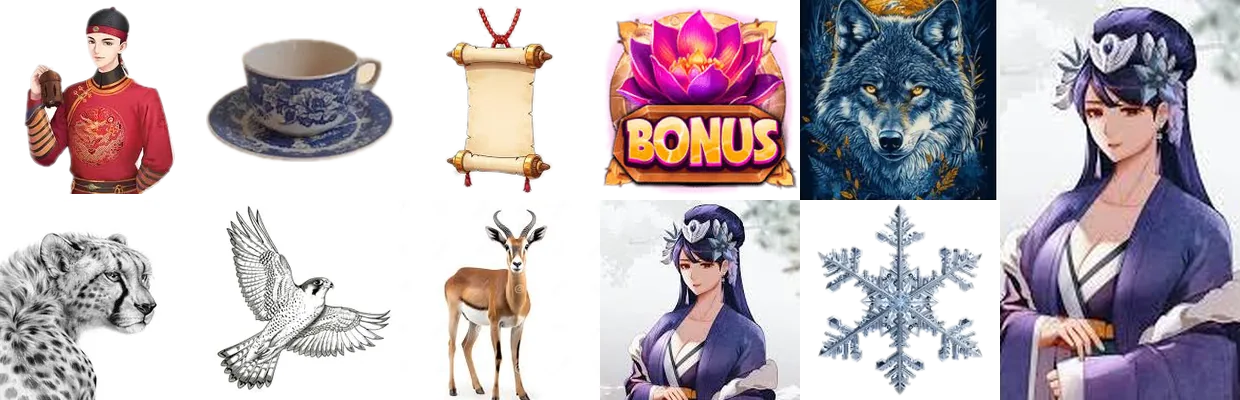
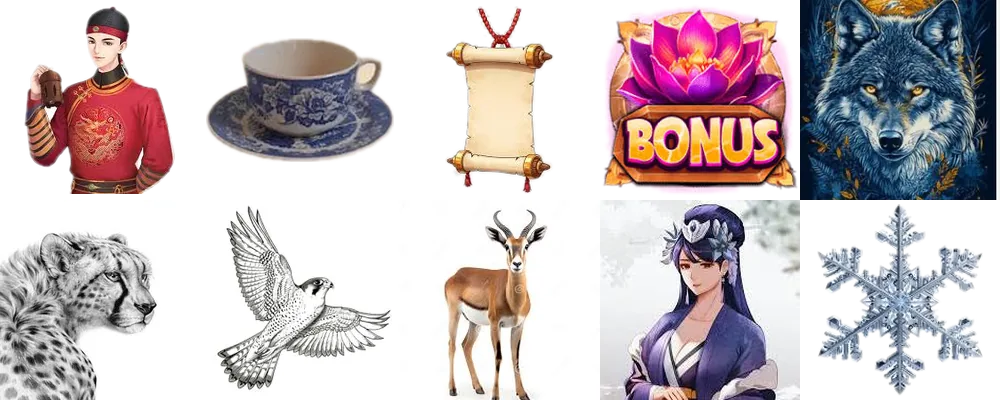
La noble de azul pasa a Sueño Rojo; Reino de Nieve recupera su Reina
- Sueño Rojo: la noble de azul reemplaza a la noble china, en retrato con
  marco lacado rojo y dorado (también en el lobby).
- Reino de Nieve: vuelve la Reina original del atlas (símbolo, figura de 2
  casillas y lobby). Se quita el retrato alto de la hoja de temas.

Claude-Session: https://claude.ai/code/session_0158y9U2VM53nb9rLAghSrCY

diff --git a/js/games/xthemes.js b/js/games/xthemes.js
@@ -4,8 +4,8 @@
 // las filas cerradas son paneles rojos. Reino de Nieve paga por líneas y el hielo es una lámina escarchada.
 //  · SUEÑO ROJO: pagoda roja, paneles lacados con borlas, rodillos de jade, cerezos en flor.
 //  · REINO DE NIEVE: castillo de hielo, paneles escarchados, aurora, carámbanos y nevada.
-import { S, glow, goldText, rand, FONT, makeCanvas } from '../gfx.js?v=34';
-import XLink, { THEME, PAY, linesFor } from './xlink.js?v=34';
+import { S, glow, goldText, rand, FONT, makeCanvas } from '../gfx.js?v=35';
+import XLink, { THEME, PAY, linesFor } from './xlink.js?v=35';
 
 const MAXR = 8, BASE_R = 3;
 // Filas activas → formas de ganar
@@ -167,9 +167,9 @@ export class SnowKingdom extends XLink {
 }
 
 // ---------- Hoja de imágenes de los temas (assets/themes.webp, ver tools/build_themes.py) ----------
-// 10 casillas de 200×200 en 5 columnas y la Reina alta (240×400) en x=1000
+// 10 casillas de 200×200 en 5 columnas × 2 filas
 let SHEET = null;
-const SHEET_POS = { noble: 0, tea: 1, scroll: 2, lotus: 3, wolf: 4, leopard: 5, falcon: 6, antelope: 7, queen: 8, snowflake: 9 };
+const SHEET_POS = { noble: 0, tea: 1, scroll: 2, lotus: 3, wolf: 4, leopard: 5, falcon: 6, antelope: 7, lady: 8, snowflake: 9 };
 export function loadThemeArt(src = 'assets/themes.webp') {
   return new Promise((res, rej) => { const img = new Image(); img.decoding = 'async'; img.onload = () => { SHEET = img; res(img); }; img.onerror = rej; img.src = src; });
 }
@@ -178,7 +178,7 @@ function sheetDraw(x, k, dx, dy, dw, dh) {
   x.drawImage(SHEET, (n % 5) * 200, Math.floor(n / 5) * 200, 200, 200, dx, dy, dw, dh);
 }
 // Ícono del lobby desde la hoja de temas (estilo CSS)
-export function sheetIconStyle(k) { const n = SHEET_POS[k]; return 'background-image:url(assets/themes.webp);background-size:620% 200%;background-position:' + ((n % 5) * 200 / 1040 * 100).toFixed(2) + '% ' + Math.floor(n / 5) * 100 + '%'; }
+export function sheetIconStyle(k) { const n = SHEET_POS[k]; return 'background-image:url(assets/themes.webp);background-size:500% 200%;background-position:' + (n % 5) * 25 + '% ' + Math.floor(n / 5) * 100 + '%'; }
 
 // ---------- Símbolos dibujados para Sueño Rojo ----------
 const art = new Map();
@@ -511,23 +511,21 @@ const drawSnowflake = drawn('snowflake', (x, s) => {
   bonusLabel(x, s, s * 0.86, ['#ffffff', '#8fd0ff'], '#0a2a5a');
 }, true);
 
-// Sueño Rojo: noble chino, taza de porcelana, papiro y flor de loto BONUS
-RED.draw = Object.assign({}, RED.draw, { s7b: figure('noble'), bar: figure('tea'), bell: figure('scroll'), scat: figure('lotus') });
-RED.names = Object.assign({}, RED.names, { bar: 'Taza de porcelana' });
-// Reino de Nieve: Reina, lobo, leopardo, halcón, antílope y copo de nieve BONUS
-SNOW.draw = Object.assign({}, SNOW.draw, { s7r: card('queen'), s7b: card('wolf'), bar: card('leopard', true), bell: card('falcon', true), melon: card('antelope', true), scat: drawSnowflake });
+// Retrato en marco lacado rojo con borde dorado (la noble de azul de Sueño Rojo)
+const lacquer = k => drawn('lacq-' + k, (x, s) => {
+  x.save(); x.shadowColor = 'rgba(0,0,0,0.6)'; x.shadowBlur = s * 0.05; x.shadowOffsetY = s * 0.02;
+  iceFrame(x, s, 0.03); const g = x.createLinearGradient(0, 0, s, s); g.addColorStop(0, '#e0281a'); g.addColorStop(1, '#6a0406'); x.fillStyle = g; x.fill(); x.restore();
+  x.save(); iceFrame(x, s, 0.085); x.clip(); sheetDraw(x, k, s * 0.085, s * 0.085, s * 0.83, s * 0.83); x.restore();
+  iceFrame(x, s, 0.085); x.lineWidth = s * 0.022; const gb = x.createLinearGradient(0, 0, 0, s); gb.addColorStop(0, '#fff0a8'); gb.addColorStop(0.5, '#e8a820'); gb.addColorStop(1, '#ffd06a'); x.strokeStyle = gb; x.stroke();
+  // esquinas doradas
+  x.fillStyle = '#ffd06a'; [[0.07, 0.07], [0.93, 0.07], [0.07, 0.93], [0.93, 0.93]].forEach(([u, v]) => { x.beginPath(); x.arc(s * u, s * v, s * 0.035, 0, 7); x.fill(); });
+}, true);
+// Sueño Rojo: noble de azul, noble chino, taza de porcelana, papiro y flor de loto BONUS
+RED.draw = Object.assign({}, RED.draw, { s7r: lacquer('lady'), s7b: figure('noble'), bar: figure('tea'), bell: figure('scroll'), scat: figure('lotus') });
+RED.names = Object.assign({}, RED.names, { s7r: 'Noble de azul', bar: 'Taza de porcelana' });
+// Reino de Nieve (la Reina sigue siendo la del atlas): lobo, leopardo, halcón, antílope y copo de nieve BONUS
+SNOW.draw = Object.assign({}, SNOW.draw, { s7b: card('wolf'), bar: card('leopard', true), bell: card('falcon', true), melon: card('antelope', true), scat: drawSnowflake });
 SNOW.names = Object.assign({}, SNOW.names, { scat: 'Copo de nieve' });
 SNOW.scatter = Object.assign({}, SNOW.scatter, { name: 'copos de nieve' });
-// Reina de 2 casillas: retrato alto recortado al marco en punta
-SNOW.stackArt = (x, w, h, m) => {
-  if (!SHEET) return false;
-  const k = Math.max(w / 240, h / 400), dw = 240 * k, dh = 400 * k;
-  x.imageSmoothingEnabled = true; x.imageSmoothingQuality = 'high';
-  x.drawImage(SHEET, 1000, 0, 240, 400, (w - dw) / 2, 0, dw, dh);
-  // escarcha en la base
-  const g = x.createLinearGradient(0, h * 0.82, 0, h); g.addColorStop(0, 'rgba(230,245,255,0)'); g.addColorStop(1, 'rgba(230,245,255,0.85)');
-  x.fillStyle = g; x.fillRect(0, h * 0.82, w, h * 0.18);
-  return true;
-};
-RedDream.lobby.icons = ['noble', S.GEISHA, 'lotus'];
-SnowKingdom.lobby.icons = ['wolf', 'queen', 'leopard'];
+RedDream.lobby.icons = ['noble', 'lady', 'lotus'];
+SnowKingdom.lobby.icons = ['wolf', S.QUEEN, 'leopard'];

diff --git a/js/app.js b/js/app.js
@@ -1,17 +1,17 @@
-import { sfx } from './audio.js?v=34';
-import { loadAtlas, clearSpriteCache, Particles, goldText, ease, glow, clamp, FONT, rand } from './gfx.js?v=34';
-import { sleep } from './reels.js?v=34';
-import XLink from './games/xlink.js?v=34';
-import Avalanche from './games/avalanche.js?v=34';
-import FireWheel from './games/firewheel.js?v=34';
-import Legion from './games/legion.js?v=34';
-import Bull from './games/bull.js?v=34';
-import Dragon from './games/dragon.js?v=34';
-import Codex from './games/codex.js?v=34';
-import Reef from './games/reef.js?v=34';
-import Western from './games/western.js?v=34';
-import Galaxy from './games/galaxy.js?v=34';
-import { RedDream, SnowKingdom, loadThemeArt, sheetIconStyle } from './games/xthemes.js?v=34';
+import { sfx } from './audio.js?v=35';
+import { loadAtlas, clearSpriteCache, Particles, goldText, ease, glow, clamp, FONT, rand } from './gfx.js?v=35';
+import { sleep } from './reels.js?v=35';
+import XLink from './games/xlink.js?v=35';
+import Avalanche from './games/avalanche.js?v=35';
+import FireWheel from './games/firewheel.js?v=35';
+import Legion from './games/legion.js?v=35';
+import Bull from './games/bull.js?v=35';
+import Dragon from './games/dragon.js?v=35';
+import Codex from './games/codex.js?v=35';
+import Reef from './games/reef.js?v=35';
+import Western from './games/western.js?v=35';
+import Galaxy from './games/galaxy.js?v=35';
+import { RedDream, SnowKingdom, loadThemeArt, sheetIconStyle } from './games/xthemes.js?v=35';
 
 const GAMES = [XLink, RedDream, SnowKingdom, Avalanche, FireWheel, Legion, Bull, Dragon, Codex, Reef, Western, Galaxy];
 const BETS = [10, 20, 30, 50, 100, 200, 500];

diff --git a/js/games/xlink.js b/js/games/xlink.js
@@ -3,8 +3,8 @@
 // hasta 8 filas y 100 líneas. 6+ bolas doradas activan GOLDEN SPINS: las bolas quedan fijas,
 // 3 giros que se reinician con cada bola nueva y filas que se desbloquean con rayos al
 // acumular 8 · 12 · 17 · 23 · 30 bolas. Tablero lleno (40) = GRAND.
-import { S, sym, ball, jackpotRibbonBall, cashBall, spinsBall, specialIcon, spriteURL, bolt, electricRing, glow, goldText, roundRect, ease, rand, makeCanvas, FONT } from '../gfx.js?v=34';
-import { ReelSet, LINES_5x3, weighted } from '../reels.js?v=34';
+import { S, sym, ball, jackpotRibbonBall, cashBall, spinsBall, specialIcon, spriteURL, bolt, electricRing, glow, goldText, roundRect, ease, rand, makeCanvas, FONT } from '../gfx.js?v=35';
+import { ReelSet, LINES_5x3, weighted } from '../reels.js?v=35';
 
 const COLS = 5, MAXR = 8, BASE_R = 3;
 const THRESH = [8, 12, 17, 23, 30];
@@ -275,8 +275,6 @@ export default class XLink {
     shape(); x.fillStyle = g; x.fill();
     // Interior con la figura
     x.save(); shape(); x.clip();
-    // El tema puede traer su propio retrato de 2 casillas (la Reina de Reino de Nieve)
-    if (this.T.stackArt && this.T.stackArt(x, w, h, m)) { x.restore(); shape(); x.lineWidth = w * 0.03; x.strokeStyle = '#e8f8ff'; x.stroke(); return (cache[key] = c); }
     g = x.createLinearGradient(0, 0, 0, h); g.addColorStop(0, '#2a4a8a'); g.addColorStop(1, '#0a1a4a');
     x.fillStyle = g; x.fillRect(m * 2.2, m * 2.2, w - m * 4.4, h - m * 4.4);
     const img = sym(this.T.icon[k], w * 1.15);

diff --git a/js/games/galaxy.js b/js/games/galaxy.js
@@ -3,8 +3,8 @@
 // llega hasta el ÚLTIMO rodillo aparece uno nuevo a la derecha y gira solo, hasta 15 rodillos.
 // Llegar a 8 / 10 / 12 / 15 rodillos = MINI / MINOR / MAJOR / GRAND.
 // 3+ portales = 8 giros gratis con multiplicador que sube +1 por cada rodillo nuevo y no se reinicia.
-import { S, sym, glow, goldText, roundRect, rand, FONT, makeCanvas } from '../gfx.js?v=34';
-import { ReelSet, weighted } from '../reels.js?v=34';
+import { S, sym, glow, goldText, roundRect, rand, FONT, makeCanvas } from '../gfx.js?v=35';
+import { ReelSet, weighted } from '../reels.js?v=35';
 
 const ROWS = 3, START = 3, MAXC = 15;
 export const P = { sun: 1, diamond: 0.8, rstar: 0.6, bstar: 0.5, gstar: 0.4, snow: 0.4, K: 0.2, Q: 0.2, J: 0.15, ten: 0.15 };

diff --git a/sw.js b/sw.js
@@ -1,6 +1,6 @@
 // Caché offline: la app funciona sin conexión una vez abierta.
-const CACHE = 'aurum-v34';
-const V = '?v=34';
+const CACHE = 'aurum-v35';
+const V = '?v=35';
 const FILES = ['./', './index.html', './css/app.css' + V, './js/app.js' + V, './js/audio.js' + V, './js/gfx.js' + V, './js/reels.js' + V,
   './js/games/xlink.js' + V, './js/games/avalanche.js' + V, './js/games/firewheel.js' + V, './js/games/legion.js' + V, './js/games/bull.js' + V, './js/games/dragon.js' + V, './js/games/codex.js' + V, './js/games/reef.js' + V, './js/games/western.js' + V, './js/games/galaxy.js' + V, './js/games/xthemes.js' + V,
   './assets/symbols.webp', './assets/themes.webp', './icon-180.png', './icon-512.png', './manifest.webmanifest'];

diff --git a/js/games/avalanche.js b/js/games/avalanche.js
@@ -2,8 +2,8 @@
 // 6x5, pagos en cualquier posición (8+ iguales). Los símbolos ganadores estallan en hielo y
 // caen nuevos (cascadas). Multiplicador base x1→x2→x3→x5 por cascada. 4+ copos = 10 giros
 // gratis con multiplicador progresivo que NO se reinicia (+1 por cada cascada ganadora).
-import { S, sym, ball, jackpotBall, shortMoney, glow, goldText, roundRect, ease, rand, FONT, makeCanvas, electricRing } from '../gfx.js?v=34';
-import { weighted } from '../reels.js?v=34';
+import { S, sym, ball, jackpotBall, shortMoney, glow, goldText, roundRect, ease, rand, FONT, makeCanvas, electricRing } from '../gfx.js?v=35';
+import { weighted } from '../reels.js?v=35';
 
 const COLS = 6, ROWS = 5;
 export const PAY = {

diff --git a/js/games/codex.js b/js/games/codex.js
@@ -2,8 +2,8 @@
 // El CÓDICE es wild y dispersor a la vez: 3+ en cualquier lugar = 10 giros gratis. Antes de
 // empezar se elige al azar un SÍMBOLO ESPECIAL; en los giros gratis, si aparece en suficientes
 // rodillos se EXPANDE a todo el rodillo y paga en las 10 líneas aunque no esté contiguo.
-import { S, sym, glow, goldText, roundRect, ease, rand, FONT, makeCanvas } from '../gfx.js?v=34';
-import { ReelSet, LINES_5x3, weighted } from '../reels.js?v=34';
+import { S, sym, glow, goldText, roundRect, ease, rand, FONT, makeCanvas } from '../gfx.js?v=35';
+import { ReelSet, LINES_5x3, weighted } from '../reels.js?v=35';
 
 const COLS = 5, ROWS = 3, NL = 10;
 const LINES = LINES_5x3.slice(0, NL);

diff --git a/js/games/reef.js b/js/games/reef.js
@@ -3,8 +3,8 @@
 // estalla un grupo queda MARCADA; si vuelve a estallar ahí se enciende un multiplicador x2 que
 // se duplica cada vez (x4, x8 … x128). Un grupo sobre casillas encendidas se multiplica por la
 // suma de sus multiplicadores. 3+ perlas = giros gratis donde las marcas NO se borran.
-import { S, sym, ball, glow, goldText, roundRect, rand, FONT, makeCanvas } from '../gfx.js?v=34';
-import { weighted } from '../reels.js?v=34';
+import { S, sym, ball, glow, goldText, roundRect, rand, FONT, makeCanvas } from '../gfx.js?v=35';
+import { weighted } from '../reels.js?v=35';
 
 const COLS = 7, ROWS = 7;
 // Pago (× apuesta) según tamaño del grupo: 5, 6, 7, 8, 9-10, 11-12, 13-14, 15+

diff --git a/js/games/firewheel.js b/js/games/firewheel.js
@@ -1,8 +1,8 @@
 // RUEDA DE FUEGO · clásico 3x3, 5 líneas.
 // El WILD de fuego solo cae en el rodillo central: se expande a todo el rodillo y duplica
 // las líneas donde participa. 3 soles = RUEDA DE FUEGO con multiplicadores y 4 jackpots.
-import { S, sym, glow, goldText, roundRect, ease, rand, FONT } from '../gfx.js?v=34';
-import { ReelSet, LINES_3x3, weighted, weightedIdx } from '../reels.js?v=34';
+import { S, sym, glow, goldText, roundRect, ease, rand, FONT } from '../gfx.js?v=35';
+import { ReelSet, LINES_3x3, weighted, weightedIdx } from '../reels.js?v=35';
 
 export const PAY = { seven: 60, bell: 24, melon: 18, grapes: 18, plum: 9, orange: 9, cherry: 6 };
 const W_REEL = [

diff --git a/js/games/western.js b/js/games/western.js
@@ -3,8 +3,8 @@
 // avanza un rodillo a la izquierda hasta salir del tablero. Mientras quede alguno en pantalla
 // se sigue re-girando. 3/4/5/6+ forajidos a la vez = MINI/MINOR/MAJOR/GRAND.
 // 3+ estrellas de sheriff = 10 giros gratis donde cada forajido en una línea la multiplica x2.
-import { S, sym, glow, goldText, roundRect, ease, rand, FONT, makeCanvas } from '../gfx.js?v=34';
-import { ReelSet, LINES_5x3, weighted } from '../reels.js?v=34';
+import { S, sym, glow, goldText, roundRect, ease, rand, FONT, makeCanvas } from '../gfx.js?v=35';
+import { ReelSet, LINES_5x3, weighted } from '../reels.js?v=35';
 
 const COLS = 5, ROWS = 3;
 export const PAY = {

diff --git a/js/games/bull.js b/js/games/bull.js
@@ -3,8 +3,8 @@
 // todas las monedas visibles. Monedas MINI/MINOR/MAJOR/GRAND entregan su jackpot al ser recogidas.
 // 3 tréboles (rodillos 1, 3 y 5) = ESTAMPIDA: 10 giros gratis donde cada toro sube el
 // multiplicador de recolección (x1 → x2 → x3 …) y el toro aparece más seguido.
-import { S, sym, ball, glow, goldText, roundRect, ease, rand, FONT } from '../gfx.js?v=34';
-import { ReelSet, LINES_5x3, weighted } from '../reels.js?v=34';
+import { S, sym, ball, glow, goldText, roundRect, ease, rand, FONT } from '../gfx.js?v=35';
+import { ReelSet, LINES_5x3, weighted } from '../reels.js?v=35';
 
 const COLS = 5, ROWS = 3;
 export const PAY = {

diff --git a/js/games/legion.js b/js/games/legion.js
@@ -1,8 +1,8 @@
 // LEGIÓN DORADA · 5x4, 1024 formas de ganar.
 // Wild (corona) en rodillos 2-4. 3+ fénix = giros gratis (8/12/20). En giros gratis cada wild
 // queda PEGADO con un multiplicador x2/x3 que se multiplica en cada forma ganadora.
-import { S, sym, ball, jackpotBall, shortMoney, glow, goldText, roundRect, ease, rand, FONT } from '../gfx.js?v=34';
-import { ReelSet, weighted } from '../reels.js?v=34';
+import { S, sym, ball, jackpotBall, shortMoney, glow, goldText, roundRect, ease, rand, FONT } from '../gfx.js?v=35';
+import { ReelSet, weighted } from '../reels.js?v=35';
 
 const COLS = 5, ROWS = 4;
 export const PAY = {
